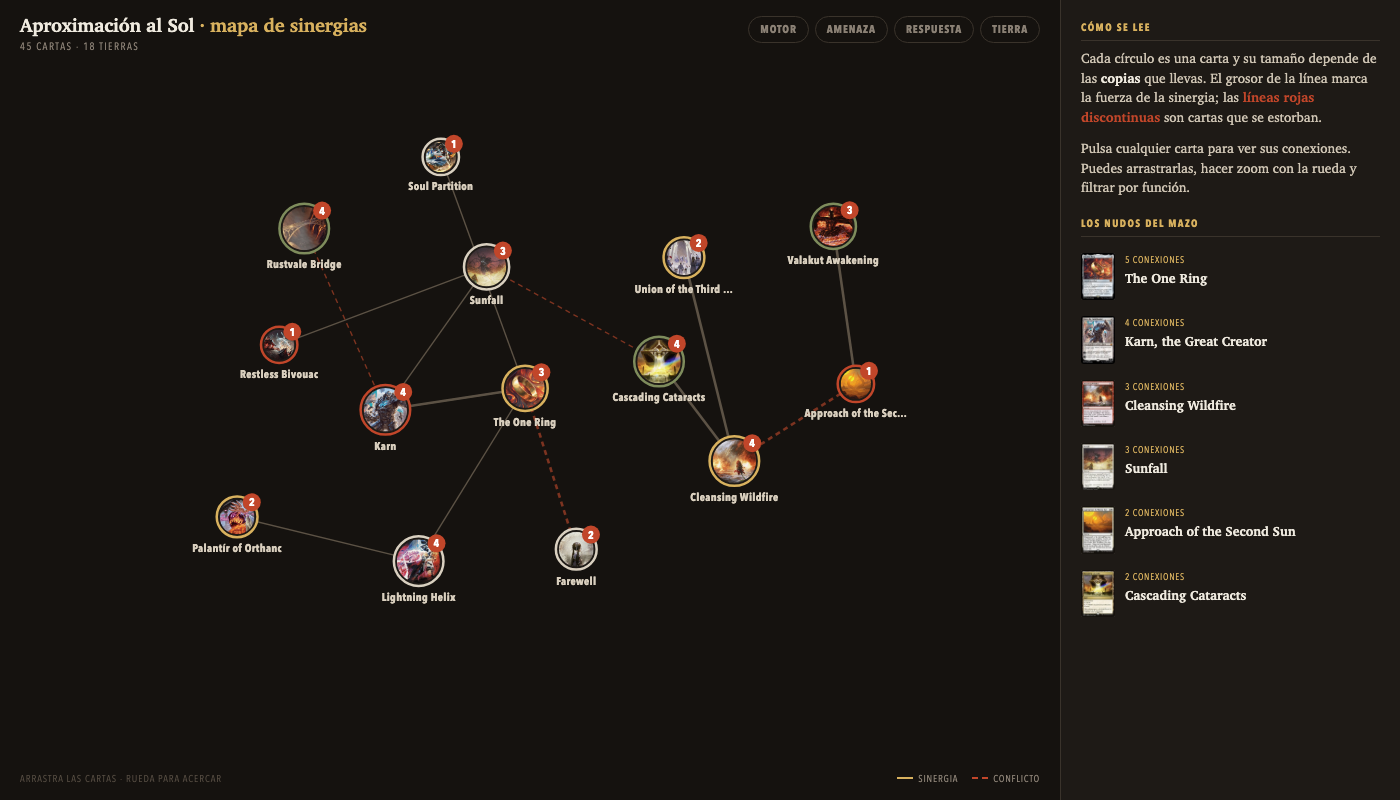
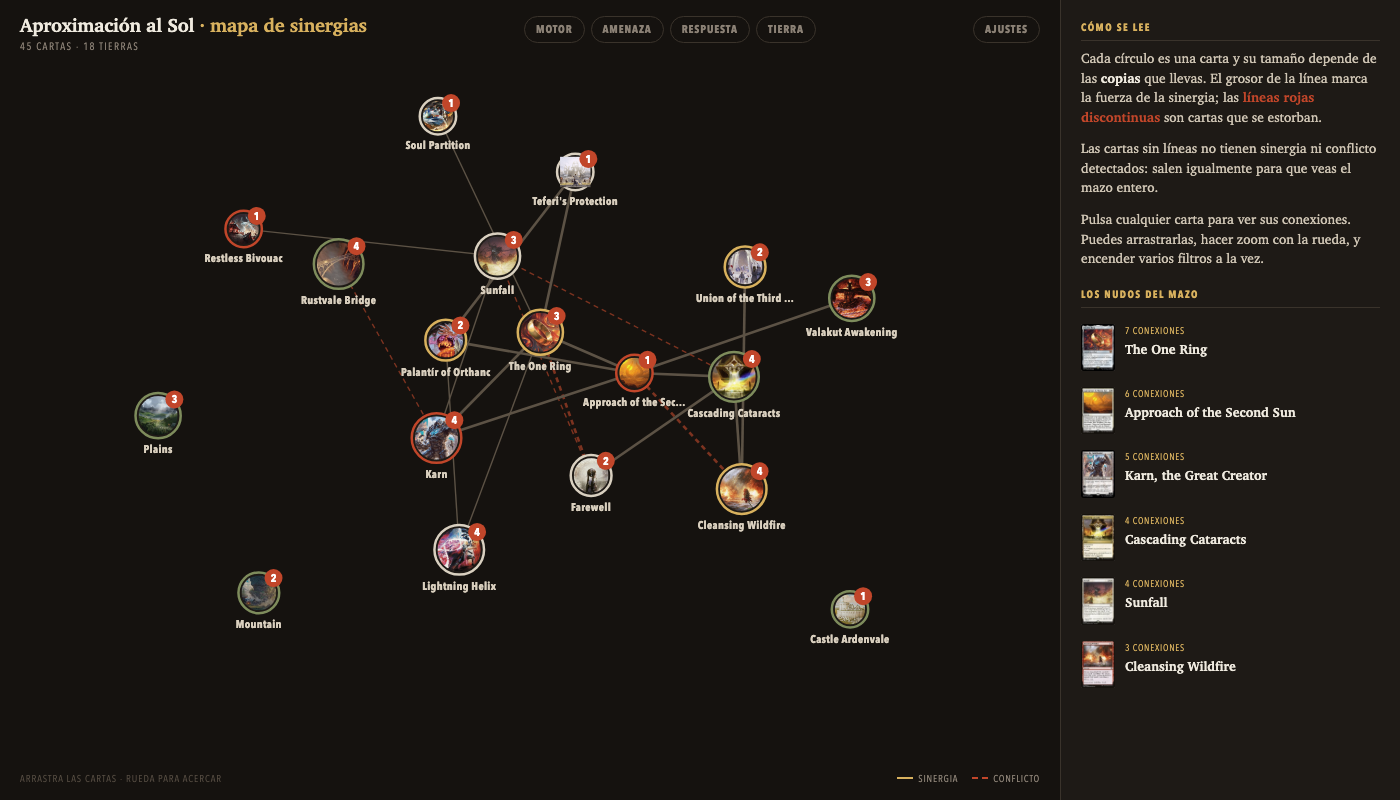
README al día con el léxico, los ajustes del mapa y las cifras reales
Lo que faltaba documentar:

- Los mandos de densidad del mapa, con la nota de que los conflictos no se
  ocultan con ninguno.
- Que salen todas las cartas, también las sueltas, y que los filtros se acumulan.
- El léxico de recursos: cómo se escribe un concepto, con su ejemplo y con los
  dos falsos positivos que el motor ya evita por ti (texto recordatorio y nombre
  propio de la carta).
- lexico.py, lexico.json, hechos.py, combos.py y grafo.css en la estructura.

Y cuatro cifras que habían quedado obsoletas: 23 conceptos por 24, 6 pruebas por
16, y los dos ejemplos de salida (20 sinergias por 28, y 12 por 14).

La captura del mapa se regenera porque el mapa sí ha cambiado: ya se ven el botón
de ajustes y las cartas sin relaciones. Las de la guía y la chuleta se quedan
como estaban, porque su diseño no ha cambiado y la recaptura salía con las cartas
en gris — desde la unificación de renderizadores las imágenes se piden en tiempo
de ejecución y el headless no espera a la red.

diff --git a/README.md b/README.md
@@ -17,14 +17,29 @@ línea de comandos** y como **web** que corre entera en el navegador.
 ## Qué genera
 
 Pegas una lista de mazo y salen tres documentos HTML autónomos. Estas capturas son
-salida real del mazo de ejemplo (45 cartas, 20 sinergias detectadas).
+salida real del mazo de ejemplo: 45 cartas y 28 sinergias detectadas.
 
 ### El mapa del mazo
 
 Un grafo de fuerzas navegable: cada círculo es una carta, su tamaño depende de cuántas
 copias llevas y el grosor de la línea marca la fuerza de la sinergia. Las **líneas rojas
 discontinuas** son cartas que se estorban entre sí. Puedes pulsar cualquier carta para
-aislar sus conexiones, arrastrarlas, hacer zoom y filtrar por función.
+aislar sus conexiones, arrastrarlas y hacer zoom.
+
+Salen **todas** las cartas del mazo, también las que no tienen ninguna relación detectada:
+una tierra suelta dice algo del mazo, y esconderla no.
+
+Los filtros por función son **acumulables** — enciende varios y verás lo que encaje en
+cualquiera de ellos. Y el botón **Ajustes** controla la densidad de la red:
+
+| Mando | Para qué |
+|---|---|
+| **Conexiones por carta** | Recorta la maraña dejando lo más fuerte de cada carta |
+| **Fuerza mínima** | Esconde las sinergias flojas |
+| **Solo conflictos** | Deja el mapa únicamente con los avisos |
+
+El motor sigue calculando todas las sinergias; esto solo decide cuáles se dibujan. **Los
+conflictos no se ocultan con ningún ajuste**, porque avisar es el trabajo principal del mapa.
 
 ![Mapa de sinergias del mazo](docs/capturas/mapa.png)
 
@@ -51,7 +66,7 @@ Cada línea es una interacción con sus cartas en miniatura y cuándo aplica.
 |---|---|---|
 | `reglas.json` | 37 patrones de interacción escritos a mano | **Lo que alguien enseñó.** Profundo pero estrecho: solo encuentra lo que está escrito. |
 | Commander Spellbook | Base externa de combos curados | **Lo que otros catalogaron.** Combos con nombre propio y pasos redactados. Consultada bajo petición, cacheada, y siempre a contrastar contra el oráculo. |
-| `lexico.json` | 23 conceptos de recurso | **Lo que se deduce.** No describe parejas de cartas sino recursos: quién los produce, quién los premia y quién los rompe. Cubre cualquier mazo, aunque más en superficie. |
+| `lexico.json` | 24 conceptos de recurso | **Lo que se deduce.** No describe parejas de cartas sino recursos: quién los produce, quién los premia y quién los rompe. Cubre cualquier mazo, aunque más en superficie. |
 | El motor | `reglas.py` y su gemelo `motor.js` | Cruza el mazo con los patrones y devuelve las candidatas, cada una **con la frase de oráculo que la disparó**. |
 | `scryfall.py` | Cliente de la API de Scryfall, con caché en disco | **La fuente de verdad.** Todo lo que se afirma sale de aquí, nunca de la memoria de un modelo. |
 | Los renderizadores | `guia.js`, `chuleta.js`, `grafo.js` | Convierten el análisis en HTML autónomo. Una sola implementación, compartida por la web y la terminal. |
@@ -365,6 +380,41 @@ Campos disponibles en cada pieza: `oracle`, `oracle2`, `oracle3`, `no_oracle`, `
 **Añadir una regla es añadir un objeto a esa lista.** Nada más. Se usa igual desde
 Python y desde el navegador, porque las dos mitades leen el mismo archivo.
 
+### La segunda capa: el léxico de recursos
+
+Escribir una regla por cada pareja de cartas que interactúa no escala a treinta mil
+naipes. Por eso hay un segundo motor que trabaja al revés: `src/mtg_forja/lexico.json`
+no describe parejas, describe **recursos**. De cada carta deduce qué produce, qué premia
+y qué rompe.
+
+```json
+{
+  "id": "cementerio",
+  "nombre": "el cementerio",
+  "fuerza": 3,
+  "produce": {"oracle": ["\\bmills?\\b", "discard(s)? (a|your|two)"],
+              "no_oracle": "exile(s)? .{0,40}graveyard",
+              "texto": "llena tu cementerio"},
+  "premia":  {"oracle": ["\\bDelve\\b", "cards? in your graveyard"],
+              "texto": "se alimenta del cementerio"},
+  "rompe":   {"oracle": ["exile(s)? .{0,40}graveyard"],
+              "texto": "vacía los cementerios"}
+}
+```
+
+Las sinergias no se escriben, **se deducen**: si A produce un recurso y B lo premia, hay
+sinergia; si A lo rompe y B depende de él, hay conflicto. Un concepto cubre de golpe todas
+las parejas que lo compartan, así que el esfuerzo crece con las mecánicas del juego y no
+con el número de mazos. Hoy son **24 conceptos** frente a 37 reglas escritas.
+
+Cada bloque acepta los mismos campos que una pieza de regla (`oracle`, `no_oracle`, `tipo`,
+`no_tipo`, `mv_min`, `mv_max`), y `texto` es lo que se lee en el resumen.
+
+Dos cosas que se aprendieron a base de falsos positivos, y que el motor ya hace por ti:
+ignora el **texto recordatorio** entre paréntesis (el de retrospectiva de Snapcaster Mage
+dice «exile it» y la carta pasaba por odio al cementerio) y quita el **nombre propio** de
+la carta antes de analizar (Lightning Storm casaba con la mecánica *Tormenta*).
+
 ### Hasta dónde llega cada camino
 
 Conviene decirlo claro, porque determina qué esperar:
@@ -406,7 +456,8 @@ falta es el trabajo, y es el trabajo que hace crecer esto.
 Scryfall y aparecen en el documento, pero las reglas solo cruzan el mazo principal. Una
 sinergia que dependa de una carta del banquillo no se detecta.
 
-Después de tocar `reglas.json` o cualquiera de los renderizadores `.js`, sincroniza la web:
+Después de tocar `reglas.json`, `lexico.json`, `grafo.css` o cualquiera de los
+renderizadores `.js`, sincroniza la web:
 
 ```bash
 python scripts/sync_docs.py
@@ -467,7 +518,7 @@ Ahora una prueba de verdad, contra Scryfall:
 mtg-forja ejemplos/prueba.txt -n "Prueba" -o /tmp/forja-prueba
 ```
 
-Debe imprimir un resumen del tipo `30 cartas · 12 sinergias` y dejar tres HTML en
+Debe imprimir un resumen del tipo `30 cartas · 14 sinergias` y dejar tres HTML en
 `/tmp/forja-prueba`. Ábrelos en el navegador.
 
 ### Paso 3 — Levantar la web en local
@@ -514,7 +565,7 @@ cuanto reinicies la aplicación.
 git clone https://github.com/grutino/mtg-forja && cd mtg-forja
 python3 -m venv .venv && source .venv/bin/activate
 pip install -e . pytest
-pytest -q                                    # 6 pruebas, sin red
+pytest -q                                    # 16 pruebas, sin red
 python scripts/sync_docs.py                  # sincroniza reglas y renderizadores
 python -m http.server -d docs 8000           # web completa en localhost:8000
 ```
@@ -548,21 +599,28 @@ En los ajustes del repositorio, **Pages → Source: Deploy from a branch → `ma
 src/mtg_forja/
   modelo.py        cartas, mazo, parseo de listas (Arena, Moxfield, Archidekt, ManaBox…)
   scryfall.py      resolución con caché en disco y modo sin red
-  reglas.json      el paquete de patrones — aquí es donde se crece
-  reglas.py        motor de detección
+  reglas.json      patrones escritos a mano — parejas concretas de cartas
+  reglas.py        motor de detección de esos patrones
+  lexico.json      conceptos de recurso — aquí es donde se crece de verdad
+  lexico.py        motor deductivo: cruza productores con premiadores
+  hechos.py        radiografía objetiva del mazo (alcance, zonas, base de maná)
+  combos.py        cliente de Commander Spellbook, con caché y degradación limpia
   render/
     comun.js       paleta y utilidades compartidas
     guia.js        \
     chuleta.js      >  el diseño de los tres documentos, en una sola implementación
     grafo.js       /
+    grafo.css      estilos del mapa, compartidos con la web
     guia.py        \
     chuleta.py      >  cáscaras: incrustan el JS y el documento en un HTML autónomo
     mapa.py        /
-  server.py        servidor MCP
+  server.py        servidor MCP — las nueve herramientas
   cli.py           línea de comandos
-docs/              web de GitHub Pages (lee los mismos reglas.json y renderizadores)
+docs/              web de GitHub Pages (lee los mismos datos y renderizadores)
+docs/motor.js      gemelo en JavaScript de modelo + scryfall + reglas + lexico
 docs/capturas/     las imágenes de este README
 skill/SKILL.md     cómo debe usar Claude todo lo anterior
+tests/             16 pruebas, todas sin red
 ```
 
 **Los renderizadores no están duplicados.** El diseño de cada documento existe una sola
